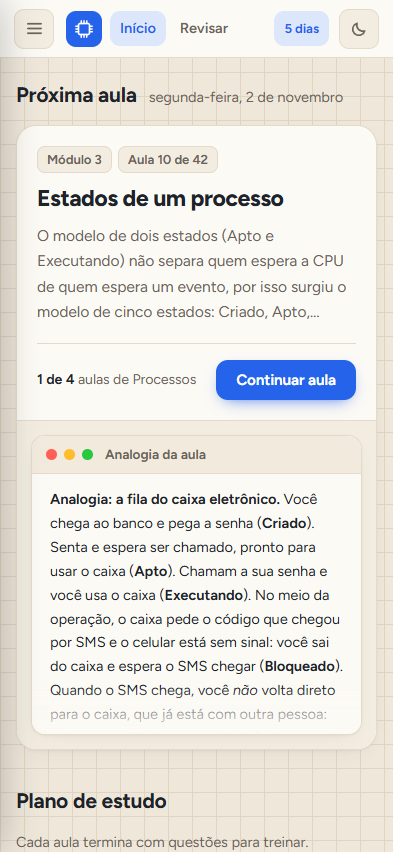
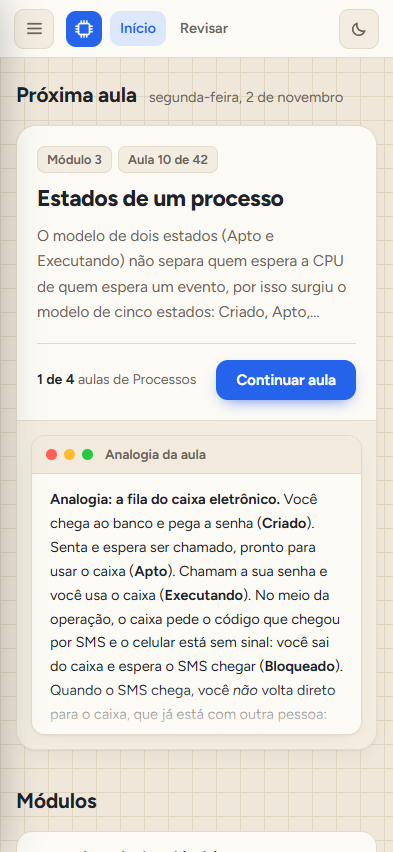
Remove a contagem regressiva e o plano de estudo

Changed region(s): [[0.0305, 0.9765, 0.9771, 1.0], [0.0305, 0.9155, 0.4275, 0.946], [0.7023, 0.0, 0.855, 0.061]]

diff --git a/js/ui/render.js b/js/ui/render.js
@@ -24,8 +24,8 @@
     return `${t.getUTCFullYear()}-${String(t.getUTCMonth() + 1).padStart(2, '0')}-${String(t.getUTCDate()).padStart(2, '0')}`;
   }
 
-  function contagem(hojeISO) {
-    const n = diasAte(hojeISO, PROVA);
+  function contagem(hojeISO, prova = PROVA) {
+    const n = diasAte(hojeISO, prova);
     if (n > 1) return `${n} dias para a prova`;
     if (n === 1) return '1 dia para a prova';
     if (n === 0) return 'Hoje é a prova';
@@ -80,7 +80,8 @@
     return '';
   }
 
-  function renderHome(modulos, plano, store, hojeISO, lessonLookup = () => undefined) {
+  // prova = null: versão sem data de prova (sem contagem regressiva e sem plano de estudo).
+  function renderHome(modulos, plano, store, hojeISO, lessonLookup = () => undefined, prova = PROVA) {
     const aulas = todasAulas(modulos);
     const porId = Object.fromEntries(aulas.map(a => [a.id, a]));
     const publicadas = aulas.filter(a => a.publicada);
@@ -112,7 +113,7 @@
     } else {
       destaque = `<article class="destaque sem-trecho"><div class="destaque-info">
         <h3>Todas as aulas disponíveis foram concluídas</h3>
-        <p class="destaque-resumo">Use os dias que faltam para refazer as questões que você errou e reler as aulas marcadas.</p>
+        <p class="destaque-resumo">${prova ? 'Use os dias que faltam para refazer' : 'Agora é hora de refazer'} as questões que você errou e reler as aulas marcadas.</p>
         <div class="destaque-rodape"><span></span><a class="botao" href="#/revisar">Abrir Revisar</a></div>
       </div></article>`;
     }
@@ -144,11 +145,11 @@
       </a></li>`;
     }).join('');
 
-    const faltam = diasAte(hojeISO, PROVA);
+    const faltam = prova ? diasAte(hojeISO, prova) : -1;
     const quadros = [];
-    for (let i = 0; i <= Math.min(Math.max(faltam, 0), 13); i++) {
+    for (let i = 0; prova && i <= Math.min(Math.max(faltam, 0), 13); i++) {
       const iso = somaDias(hojeISO, i);
-      const classe = iso === PROVA ? 'prova' : i === 0 ? 'hoje' : '';
+      const classe = iso === prova ? 'prova' : i === 0 ? 'hoje' : '';
       quadros.push(`<li class="${classe}" title="${dataExtensa(iso)}"><span>${SEMANA[diaDaSemana(iso)][0].toUpperCase()}</span><small>${partes(iso)[2]}</small></li>`);
     }
     const erradas = store.getWrong().length;
@@ -157,19 +158,19 @@
     return `<div class="home">
       <div class="home-principal">
         <header class="secao-cabeca"><h2>Próxima aula</h2><p>${dataExtensa(hojeISO)}</p></header>
-        ${plano.mensagem ? `<p class="aviso">${esc(plano.mensagem)}</p>` : ''}
+        ${prova && plano.mensagem ? `<p class="aviso">${esc(plano.mensagem)}</p>` : ''}
         ${destaque}
-        <header class="secao-cabeca"><h2>Plano de estudo</h2><p>Cada aula termina com questões para treinar.</p></header>
-        <ol class="plano">${dias}</ol>
+        ${prova ? `<header class="secao-cabeca"><h2>Plano de estudo</h2><p>Cada aula termina com questões para treinar.</p></header>
+        <ol class="plano">${dias}</ol>` : ''}
         <header class="secao-cabeca"><h2>Módulos</h2></header>
         <ol class="lista-modulos">${mods}</ol>
       </div>
       <aside class="home-lateral">
-        <section class="painel contagem">
+        ${prova ? `<section class="painel contagem">
           <p class="contagem-numero">${faltam > 0 ? `<strong>${faltam} ${faltam === 1 ? 'dia' : 'dias'}</strong>` : `<strong>${faltam === 0 ? 'Hoje' : 'Prova feita'}</strong>`}</p>
-          <p class="contagem-legenda">${faltam > 0 ? `para a prova (${dataExtensa(PROVA)})` : contagem(hojeISO)}</p>
+          <p class="contagem-legenda">${faltam > 0 ? `para a prova (${dataExtensa(prova)})` : contagem(hojeISO, prova)}</p>
           ${quadros.length ? `<ol class="calendario" aria-label="Dias até a prova">${quadros.join('')}</ol>` : ''}
-        </section>
+        </section>` : ''}
         <section class="painel">
           <h2>Seu progresso</h2>
           <p class="painel-numero"><strong>${feitas}</strong> de ${aulas.length} aulas concluídas</p>

diff --git a/js/app.js b/js/app.js
@@ -10,6 +10,8 @@
   const elConteudo = $('#conteudo');
   const elSidebar = $('#sidebar');
   const falharam = new Set();
+  // Data da prova vem da <meta name="so1-prova">; sem ela, não há contagem regressiva nem plano de estudo.
+  const PROVA = ($('meta[name="so1-prova"]') || {}).content || null;
 
   function hojeISO() {
     const d = new Date();
@@ -50,8 +52,11 @@
     document.querySelectorAll('.menu-topo a').forEach(a => {
       if (a.dataset.rota === r.tipo) a.setAttribute('aria-current', 'page'); else a.removeAttribute('aria-current');
     });
-    const texto = render.contagem(hojeISO());
-    $('#contagem-topo').innerHTML = `<span class="longo">${texto}</span><span class="curto">${texto.replace(' para a prova', '')}</span>`;
+    const elContagem = $('#contagem-topo');
+    if (PROVA) {
+      const texto = render.contagem(hojeISO(), PROVA);
+      elContagem.innerHTML = `<span class="longo">${texto}</span><span class="curto">${texto.replace(' para a prova', '')}</span>`;
+    } else if (elContagem) elContagem.remove();
 
     if (r.tipo === 'aula') {
       const indice = SO1.lessonIndex();
@@ -76,8 +81,8 @@
       document.title = 'SO1 · Estudo';
       const aulas = modulos.flatMap(m => m.aulas);
       const concluidas = new Set(aulas.filter(a => store.isComplete(a.id)).map(a => a.id));
-      const plano = SO1.plan.buildStudyPlan(aulas, concluidas, hojeISO());
-      elConteudo.innerHTML = render.renderHome(modulos, plano, store, hojeISO(), id => SO1.getLesson(id));
+      const plano = PROVA ? SO1.plan.buildStudyPlan(aulas, concluidas, hojeISO(), PROVA) : { dias: [] };
+      elConteudo.innerHTML = render.renderHome(modulos, plano, store, hojeISO(), id => SO1.getLesson(id), PROVA);
       janelasMac(elConteudo);
     }
     window.scrollTo(0, 0);

diff --git a/tests/render.test.js b/tests/render.test.js
@@ -144,6 +144,18 @@ test('renderHome sem nada pendente parabeniza e manda para Revisar', () => {
   assert.match(html, /href="#\/revisar"/);
 });
 
+test('renderHome sem data de prova não mostra contagem nem plano', () => {
+  const html = render.renderHome(modulos, { dias: [{ data: '2026-10-27', aulas: ['m01-a01'] }] }, createStore(null), '2026-10-27',
+    () => undefined, null);
+  assert.doesNotMatch(html, /para a prova|calendario|Plano de estudo|class="plano"/);
+  assert.match(html, /Próxima aula/);
+  assert.match(html, /Seu progresso/);
+});
+
+test('contagem aceita outra data de prova', () => {
+  assert.equal(render.contagem('2026-12-01', '2026-12-03'), '2 dias para a prova');
+});
+
 test('renderLesson mostra o título das aulas vizinhas na navegação', () => {
   const aula = { id: 'm01-a02', titulo: 'Histórico', corpo: '', resumo: '', questoes: [], dissertativas: [] };
   const html = render.renderLesson(aula, { id: 'm01-a02', titulo: 'Histórico', moduloTitulo: 'Introdução', publicada: true },

diff --git a/index.html b/index.html
@@ -29,7 +29,6 @@
       <a href="#/revisar" data-rota="revisar">Revisar</a>
     </nav>
     <div class="topo-direita">
-      <span class="contagem-topo" id="contagem-topo"></span>
       <button class="alternar-tema" aria-label="Alternar tema claro e escuro" title="Alternar tema">
         <svg class="icone-lua" viewBox="0 0 20 20" aria-hidden="true"><path d="M15.5 12.6A6.5 6.5 0 0 1 7.4 4.5a6.5 6.5 0 1 0 8.1 8.1Z" fill="none" stroke="currentColor" stroke-width="1.7" stroke-linejoin="round"/></svg>
         <svg class="icone-sol" viewBox="0 0 20 20" aria-hidden="true"><circle cx="10" cy="10" r="3.4" fill="none" stroke="currentColor" stroke-width="1.7"/><path d="M10 2.5v1.8M10 15.7v1.8M2.5 10h1.8M15.7 10h1.8M4.7 4.7l1.3 1.3M14 14l1.3 1.3M4.7 15.3 6 14M14 6l1.3-1.3" stroke="currentColor" stroke-width="1.7" stroke-linecap="round"/></svg>

diff --git a/README.md b/README.md
@@ -4,7 +4,7 @@ Site de estudo de **Sistemas Operacionais**, organizado como um curso: 10 módul
 
 **Acesse:** _link da Vercel aqui_
 
-![Página inicial com a próxima aula, o plano de estudo e a contagem até a prova](img/inicio.png)
+![Página inicial com a próxima aula, o progresso e os módulos](img/inicio.png)
 
 ## O que tem
 
@@ -13,7 +13,7 @@ Site de estudo de **Sistemas Operacionais**, organizado como um curso: 10 módul
 - **343 questões de múltipla escolha** com explicação para cada alternativa, inclusive as erradas. É preciso acertar 4 de 5 para concluir a aula.
 - **53 questões dissertativas** com resposta-modelo e uma lista de pontos-chave para a autoavaliação.
 - **Exercícios numéricos de escalonamento** (SJF, Round Robin com E/S e troca de contexto) com gabaritos conferidos à mão e por um simulador.
-- **Plano de estudo** distribuído pelos dias até a prova, **progresso** salvo no navegador e uma página **Revisar** que junta as questões erradas e as aulas marcadas.
+- **Progresso** salvo no navegador, a próxima aula em destaque com um trecho dela e uma página **Revisar** que junta as questões erradas e as aulas marcadas.
 
 | Aula com bloco de código | Quiz com verificação |
 |---|---|
